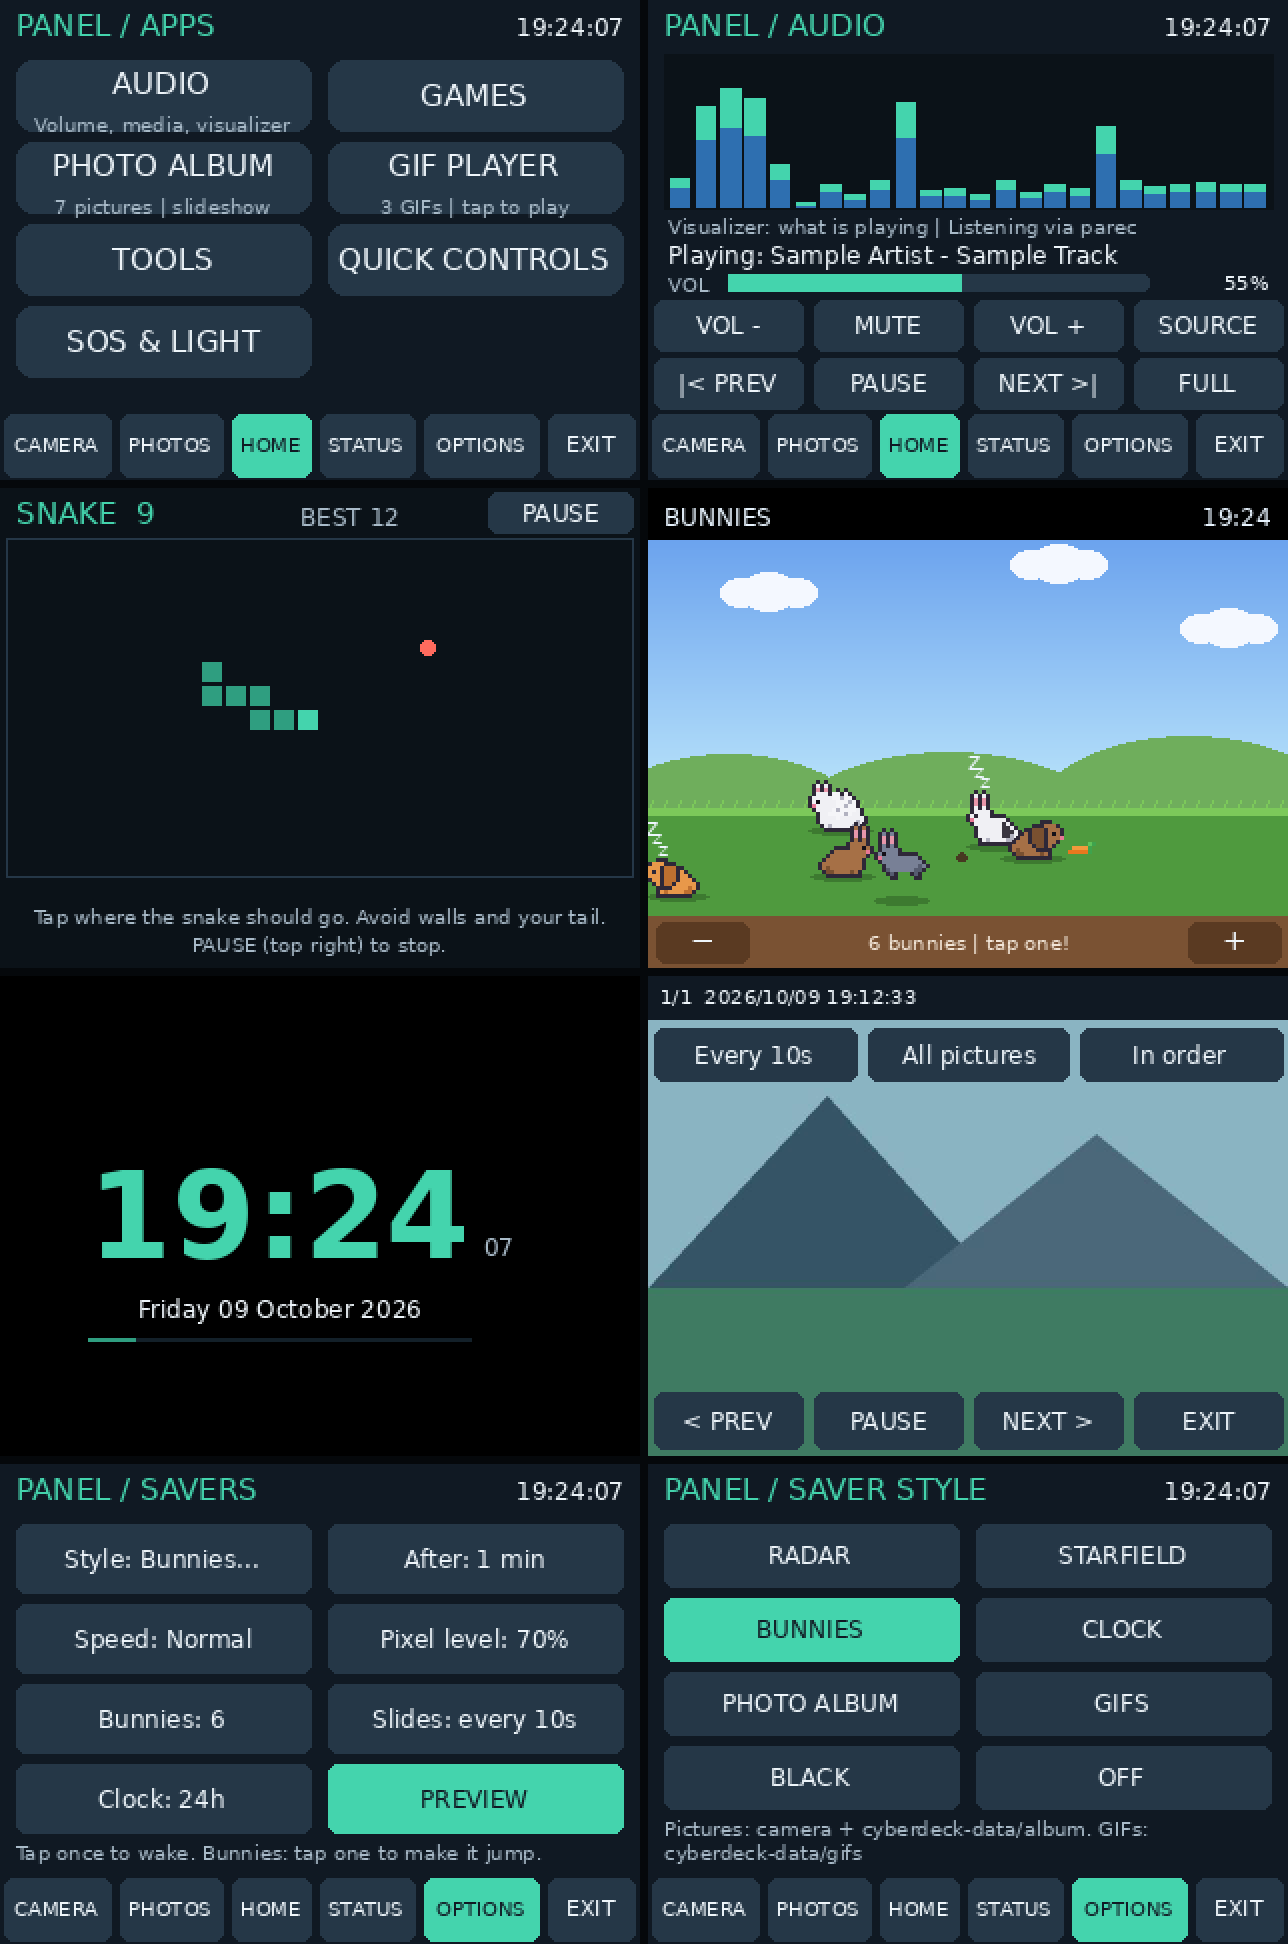
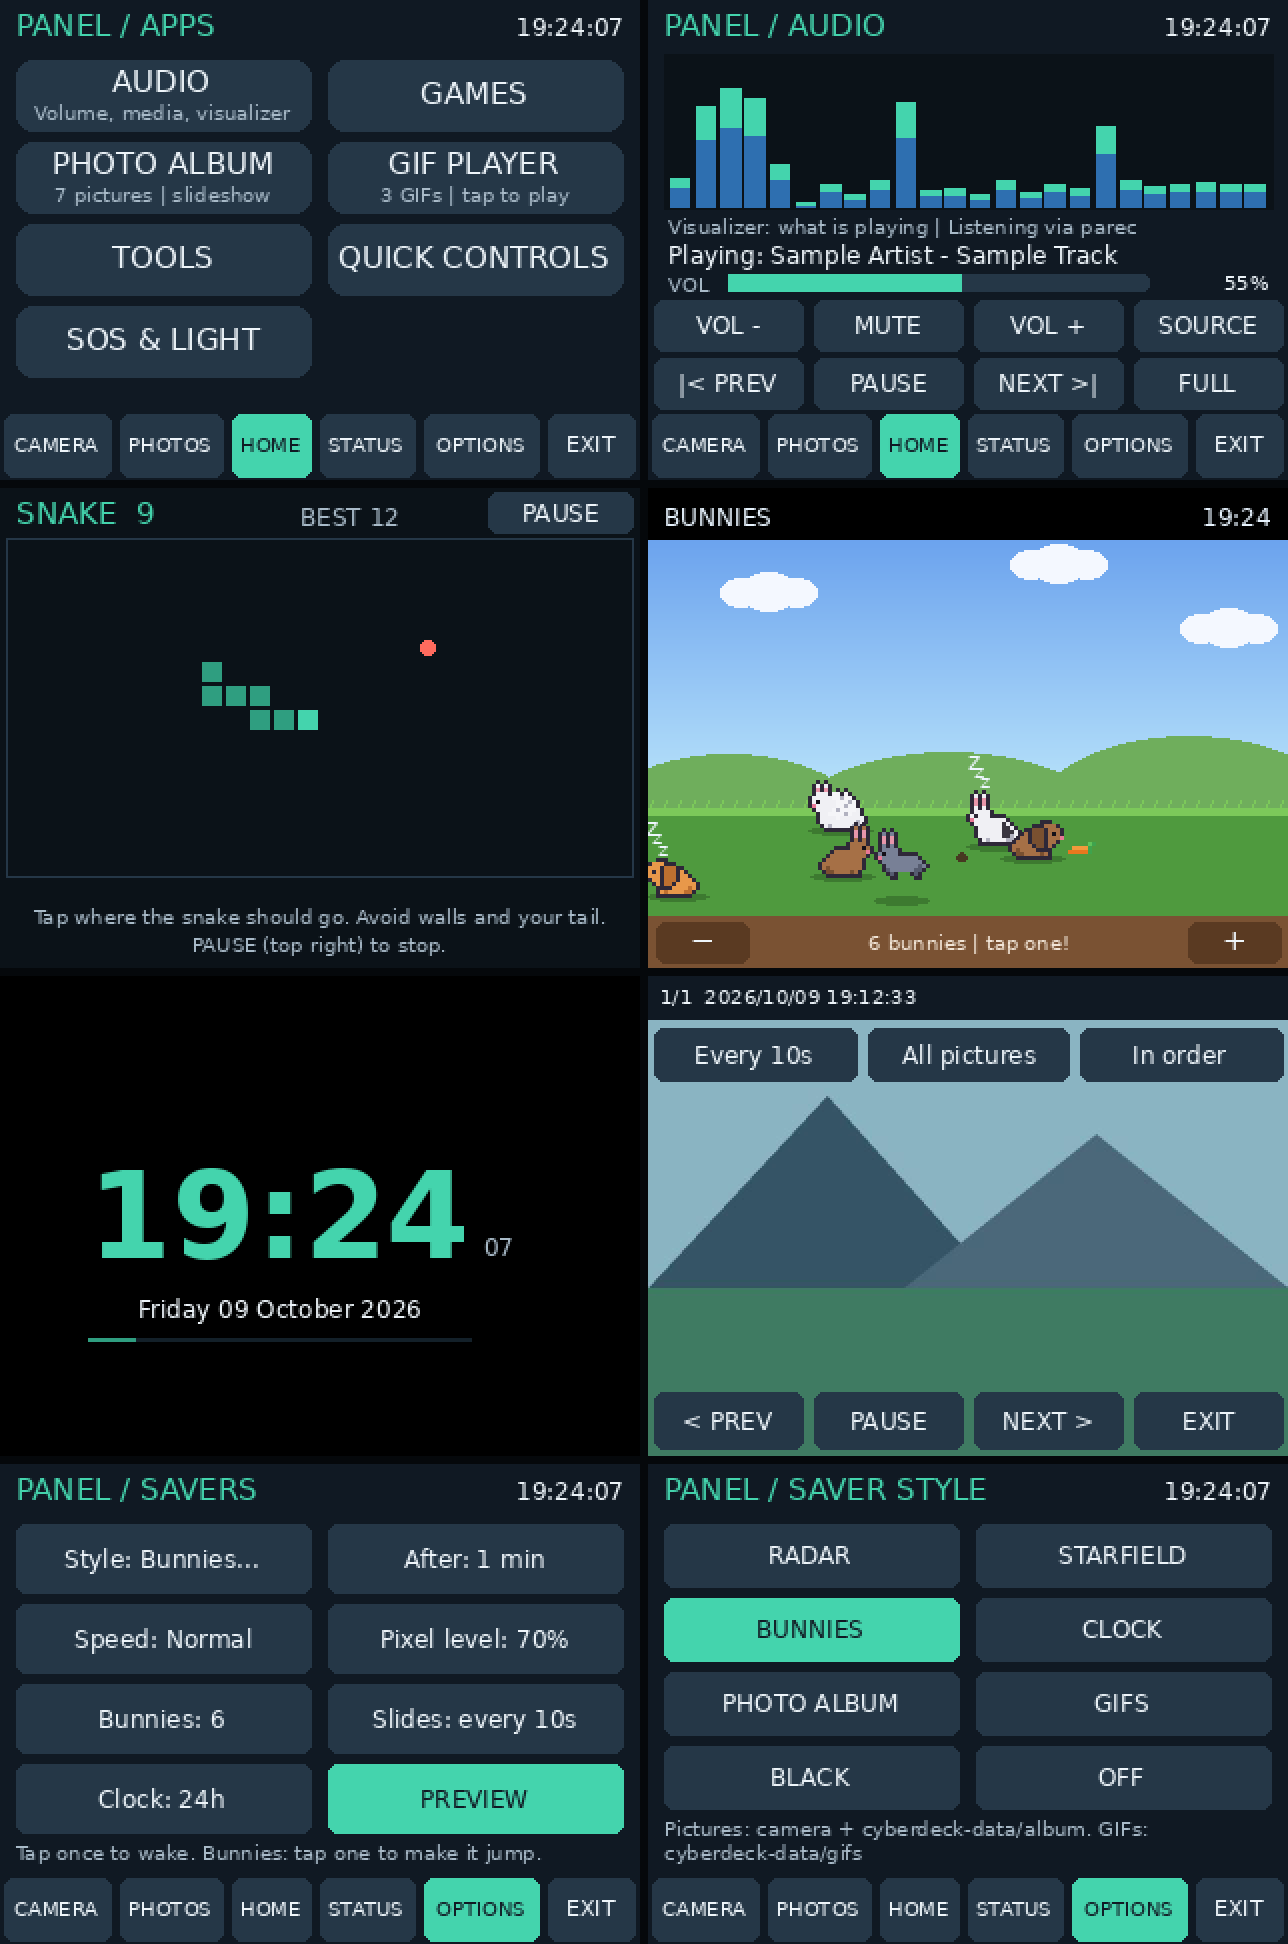
SOS & LIGHT: fit APPS tile text, keep alerts readable while flashing
Seven app tiles make four short rows, so tile_text drops note lines and
tightens spacing before shortening a title. The beacon and torch draw the
health/timer banner when an alert is active, and the light level choice is
a tested function.

Claude-Session: https://claude.ai/code/session_01VuziL64WjwRqEJws5UmCBv

diff --git a/panel_app.py b/panel_app.py
@@ -3200,6 +3200,13 @@ class VisualApp:
         return image
 
 
+def app_light_level(app, options):
+    """Brightness for a full-screen app: its own level if it drives the light (SOS & LIGHT),
+    otherwise the user's chosen level."""
+    level = getattr(app, 'level', None)
+    return options['pixel_level'] if level is None else level
+
+
 class SignalApp:
     """SOS light beacon and a steady torch. The whole screen flashes; with a PWM backlight
     the LEDs switch too, so the dark parts are really dark. Any tap stops the light."""
@@ -3228,20 +3235,22 @@ class SignalApp:
         return None
 
     def render(self, now, wall_time, alerts):
-        if self.mode == 'torch':
-            self.level, self.delay = 100, 1.
-            return Image.new('RGB', (W, H), 'white')
-        if self.mode == 'sos':
-            lit, left = beacon.state_at(self.steps, now - self.started)
+        if self.mode is not None:
+            lit, left = (True, 1.) if self.mode == 'torch' else \
+                beacon.state_at(self.steps, now - self.started)
             self.level, self.delay = (100 if lit else 0), max(.02, left)
-            return Image.new('RGB', (W, H), 'white' if lit else 'black')
+            image = Image.new('RGB', (W, H), 'white' if lit else 'black')
+            if alerts:  # A finished timer or a power warning must stay readable.
+                self.level = 100
+                draw_banner(ImageDraw.Draw(image), alerts, wall_time.strftime('%H:%M'))
+            return image
         self.level, self.delay = None, 1.
         image = Image.new('RGB', (W, H), BG)
         d = ImageDraw.Draw(image)
         game_header(d, 'SOS & LIGHT', wall_time, False)
         light = 'screen and backlight' if BACKLIGHT_PWM else 'whole screen'
         lines = ('Beacon flashes Morse SOS  ... --- ...', f'Uses the {light}.',
-                 'Under 2 flashes/s. Tap to stop.')
+                 'Flashing light, under 2/s. Tap to stop.')
         for i, line in enumerate(lines):
             d.text((10, 30 + i*16), fit_text(d, line, W-20, SMALL), font=SMALL,
                    fill=TEXT if i == 0 else MUTED)
@@ -3788,17 +3797,8 @@ def render_page(page, frame, paused, fps, rows, message, history=(), now=None,
         notes = extra.get('notes', {})
         for rect, (label, key) in zip(grid_rects(len(APP_TILES), 30, bottom+4, max_pitch=200), APP_TILES):
             d.rounded_rectangle(rect, radius=8, fill=PANEL)
-            middle, room = (rect[1]+rect[3])//2, rect[2]-rect[0]-8
-            title_lines = wrap_text(d, label, room, FONT, 2)
-            note_lines = wrap_text(d, notes.get(key, ''), room, TINY, 2)
-            y = middle - (len(title_lines)*18 + len(note_lines)*13)//2 + 2
-            for line in title_lines:
-                d.text(((rect[0]+rect[2])//2, y+8), line, font=FONT, fill=TEXT, anchor='mm')
-                y += 18
-            y += 4
-            for line in note_lines:
-                d.text(((rect[0]+rect[2])//2, y+6), line, font=TINY, fill=MUTED, anchor='mm')
-                y += 13
+            for line, y, selected, colour in tile_text(d, rect, label, notes.get(key, '')):
+                d.text(((rect[0]+rect[2])//2, y), line, font=selected, fill=colour, anchor='mm')
             hotspot(rect, 'app:' + key)
     elif page == 'audio':
         state, capture = extra.get('audio', {}), extra.get('capture')
@@ -3880,6 +3880,30 @@ def render_page(page, frame, paused, fps, rows, message, history=(), now=None,
         active = TAB_PARENT.get(page, page) == label.lower()
         button(d, rect, label, active, font_=TAB_FONT, action='tab:' + label.lower())
     return image
+
+
+def tile_text(draw, rect, title, note):
+    """[(line, centre y, font, colour)] for a launcher tile. Short tiles drop note lines and
+    tighten spacing before shortening the title, so everything stays inside the tile."""
+    room, height = rect[2]-rect[0]-8, rect[3]-rect[1]-4
+    for title_max, note_max, title_step, note_step, gap in (
+            (2, 2, 18, 13, 4), (2, 1, 18, 13, 4), (2, 1, 16, 12, 1), (2, 0, 18, 0, 0),
+            (2, 0, 16, 0, 0), (1, 1, 16, 12, 1), (1, 0, 16, 0, 0)):
+        titles = wrap_text(draw, title, room, FONT, title_max)
+        notes = wrap_text(draw, note, room, TINY, note_max) if note_max else []
+        used = len(titles)*title_step + (gap + len(notes)*note_step if notes else 0)
+        if used <= height:
+            break
+    y = (rect[1]+rect[3])//2 - used//2
+    lines = []
+    for line in titles:
+        lines.append((line, y + title_step//2, FONT, TEXT))
+        y += title_step
+    y += gap
+    for line in notes:
+        lines.append((line, y + note_step//2, TINY, MUTED))
+        y += note_step
+    return lines
 
 
 def wrap_text(draw, value, width, selected_font, max_lines=2):
@@ -4176,8 +4200,7 @@ def main():
             """Draw the current page; returns seconds until it next needs drawing."""
             if page in apps:
                 image = apps[page].render(now, datetime.now().astimezone(), alerts)
-                level = getattr(apps[page], 'level', None)  # Set by apps that drive the light.
-                light.apply(options['pixel_level'] if level is None else level)
+                light.apply(app_light_level(apps[page], options))
                 screen.show(image)
                 return apps[page].delay
             extra = None

diff --git a/tests/test_beacon.py b/tests/test_beacon.py
@@ -1,6 +1,7 @@
 """SOS & LIGHT: Morse timing, flash rate and the panel app's touch flow."""
 import sys
 import unittest
+from unittest import mock
 from datetime import datetime
 from pathlib import Path
 
@@ -8,6 +9,7 @@ ROOT = Path(__file__).resolve().parents[1]
 sys.path.insert(0, str(ROOT))
 import panel_app as app  # noqa: E402
 from panel_tools import beacon  # noqa: E402
+from PIL import Image, ImageDraw  # noqa: E402
 
 
 def centre(rect):
@@ -88,6 +90,48 @@ class SignalAppTest(unittest.TestCase):
         image = signal.render(50, CLOCK, ())
         self.assertEqual(image.getextrema(), ((255, 255),)*3)
         self.assertEqual(signal.level, 100)
+
+    def test_alerts_stay_readable_while_flashing(self):
+        signal = app.SignalApp()
+        signal.tap(*centre(signal.rects()[0]), 0)
+        alerts = [('warning', 'TIMER DONE - tap to dismiss')]
+        dark = signal.render(beacon.UNIT + .05, CLOCK, alerts)  # Between flashes.
+        self.assertEqual(dark.getpixel((2, 2)), (0xf0, 0xb3, 0x47))  # Warning banner.
+        self.assertEqual(dark.getpixel((5, app.H-5)), (0, 0, 0))     # Still dark below it.
+        self.assertEqual(signal.level, 100)
+
+    def test_light_level_hook_restores_the_users_level(self):
+        options = {**app.DEFAULT_OPTIONS, 'pixel_level': 70}
+        signal = app.SignalApp()
+        self.assertEqual(app.app_light_level(signal, options), 70)  # Menu.
+        self.assertEqual(app.app_light_level(app.VisualApp(None, None), options), 70)
+        signal.tap(*centre(signal.rects()[0]), 0)
+        signal.render(beacon.UNIT + .05, CLOCK, ())
+        pwm = mock.Mock(available=True)
+        app.Brightness(mock.Mock(pixel_level=100), pwm).apply(app.app_light_level(signal, options))
+        pwm.set.assert_called_with(0)  # Dark phase: LEDs really off.
+        signal.tap(5, 5, 1)
+        signal.render(2, CLOCK, ())
+        self.assertEqual(app.app_light_level(signal, options), 70)
+
+    def test_apps_tile_text_stays_inside_tiles(self):
+        notes = {'audio': 'Volume, media, visualizer', 'games': '9 games: arcade and puzzles',
+                 'album': '12 pictures | slideshow', 'gifs': 'Copy GIFs to cyberdeck-data/gifs',
+                 'tools': 'Timers, network, GNSS and more', 'quick': 'Camera, sound, sleep',
+                 'sos': 'SOS beacon and torch'}
+        d = ImageDraw.Draw(Image.new('RGB', (8, 8)))
+        for rotation in (0, 90):
+            app.set_rotation(rotation)
+            rects = app.grid_rects(len(app.APP_TILES), 30, app.content_bottom()+4, max_pitch=200)
+            for rect, (label, key) in zip(rects, app.APP_TILES):
+                lines = app.tile_text(d, rect, label, notes[key])
+                self.assertTrue(lines, key)
+                self.assertNotIn('...', lines[0][0], (rotation, key))  # Titles stay whole.
+                for line, y, selected, _ in lines:
+                    box = d.textbbox(((rect[0]+rect[2])//2, y), line, font=selected, anchor='mm')
+                    self.assertTrue(rect[0] <= box[0] and box[2] <= rect[2]
+                                    and rect[1] <= box[1] and box[3] <= rect[3],
+                                    (rotation, key, line, box, rect))
 
     def test_listed_in_apps_and_never_covered_by_a_saver(self):
         self.assertIn(('SOS & LIGHT', 'sos'), app.APP_TILES)
